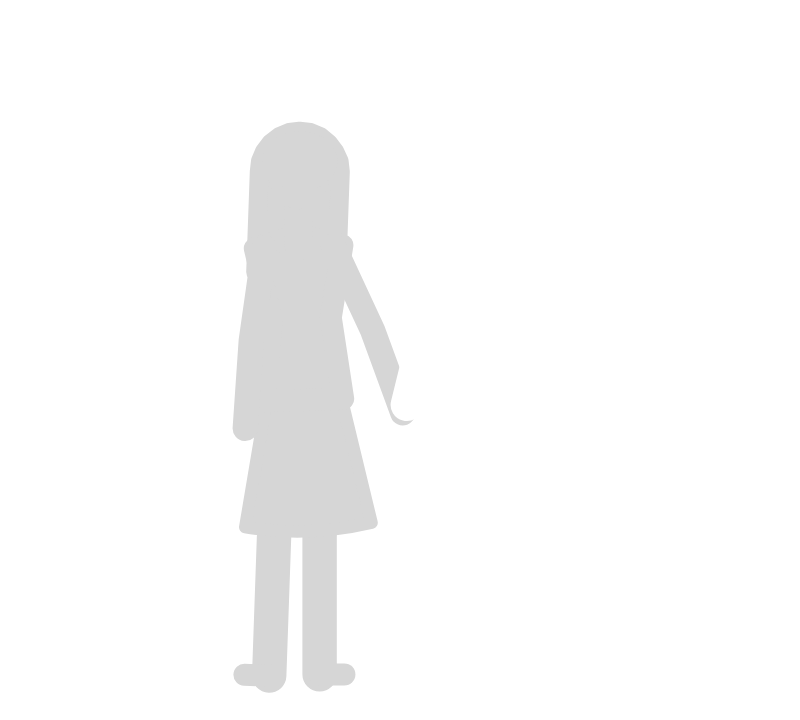
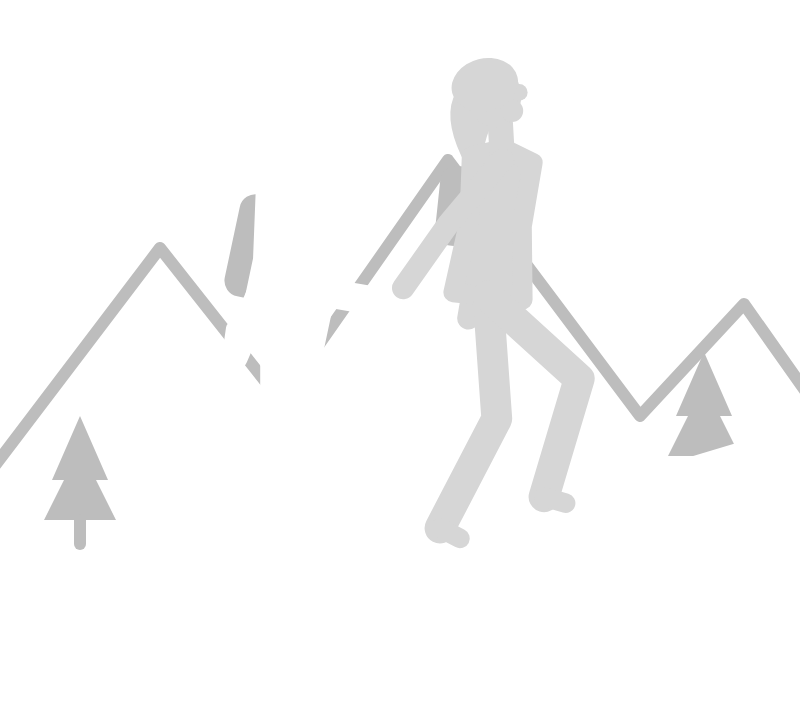
Partner moments: hiking instead of walking, more notes round the dancers, his bike sized to him
Claude-Session: https://claude.ai/code/session_0163xH4XRYdHcSjt4CmHkq4N

Changed region(s): [[0.0, 0.0611, 0.7812, 0.9778], [0.7812, 0.3972, 1.0, 0.6417], [0.0625, 0.5806, 0.1562, 0.7639]]

diff --git a/tools/partner/make_silhouettes.py b/tools/partner/make_silhouettes.py
@@ -327,15 +327,36 @@ def moments():
              + '<path d="M 100 70 Q 105 79 100 84 Q 95 79 100 70 Z" fill="#ffffff"/>')
     scenes.append(chairs + her.svg() + him.svg() + table)
 
-    # 2. Walking hand in hand, seen from the front.
-    her = Figure((76, 100), facing=0, woman=True, scale=0.85, lean=-2, head=4, skirt=0.3,
-                 legs=((4, 2), (-2, 0)), arms=((8, 4), (0, 0)))
-    him = Figure((126, 96), facing=0, scale=0.85, lean=2, head=-4,
-                 legs=((-2, 0), (5, 2)), arms=((0, 0), (8, 4)))
-    meet = (101, 104)
-    her.reach(1, meet, elbow=1)
-    him.reach(0, meet, elbow=1)
-    scenes.append(her.svg() + him.svg())
+    # 2. Hiking together: up a trail with backpacks, she is a step ahead
+    # and reaches back to give him a hand up.
+    def ground(x):
+        return 166 - 0.3 * x
+
+    hills = (stroke("M -4 120 L 40 62 L 70 100 L 112 40 L 160 104 L 186 76 L 210 110", 3, PROP_BACK)
+             + "".join(f'<path d="M {x} {y} l -7 16 l 14 0 Z M {x} {y + 8} l -9 18 l 18 0 Z" fill="{PROP_BACK}"/>'
+                       + stroke(f"M {x} {y + 26} l 0 6", 3, PROP_BACK)
+                       for x, y in ((20, 104), (176, 88))))
+    trail = f'<path d="M -4 {ground(-4):.1f} L 204 {ground(204):.1f} L 204 184 L -4 184 Z" fill="{PROP}"/>'
+    him = Figure((70, 86), facing=1, scale=0.76, lean=12, head=-8)
+    her = Figure((122, 74), facing=1, woman=True, scale=0.76, lean=6, head=-20, hair=1.1)
+    him.step(0, (54, ground(54) - 1), knee=1)
+    him.step(1, (86, ground(86) - 1), knee=1)
+    her.step(0, (110, ground(110) - 1), knee=1)
+    her.step(1, (136, ground(136) - 1), knee=1)
+    meet = (98, 76)
+    her.reach(1, meet, elbow=-1)
+    him.reach(1, meet, elbow=-1)
+    stick_top = add(him.hip, (-12, 4))
+    him.reach(0, stick_top, elbow=-1)
+    stick = stroke(f"M {stick_top[0]:.1f} {stick_top[1] - 8:.1f} L {stick_top[0] - 10:.1f} {ground(stick_top[0] - 10):.1f}", 3)
+    her.reach(0, add(her.hip, (-6, 12)))
+
+    def pack(fig, w, h):
+        c = add(add(fig.hip, fig.up(0, 32 * fig.s)), (-12 * fig.s, 0))
+        return (f'<rect x="{c[0] - w / 2:.1f}" y="{c[1] - h / 2:.1f}" width="{w}" height="{h}" rx="4" '
+                f'fill="{PROP_BACK}" transform="rotate({fig.lean:.1f} {c[0]:.1f} {c[1]:.1f})"/>')
+
+    scenes.append(hills + trail + pack(him, 16, 26) + pack(her, 13, 20) + him.svg() + her.svg() + stick)
 
     # 3. Sharing an umbrella in the rain, close, from the front.
     her = Figure((84, 104), facing=0, woman=True, scale=0.85, lean=6, head=10, skirt=0.2,
@@ -366,9 +387,15 @@ def moments():
     back = add(her.hip, her.up(0, 26 * her.s))
     him.reach(1, add(back, (-8, 0)))
     her.reach(0, add(him.shoulder_mid, (0, 18)), elbow=-1)
-    notes = (stroke("M 26 40 l 0 -14 l 8 -3 l 0 14", 2) + '<circle cx="24" cy="40" r="3" fill="#fff"/>'
-             + '<circle cx="32" cy="37" r="3" fill="#fff"/>'
-             + stroke("M 172 30 l 0 -12", 2) + '<circle cx="170" cy="30" r="3" fill="#fff"/>')
+    def note(x, y, double=False):
+        if double:
+            return (stroke(f"M {x} {y} l 0 -14 l 9 -3 l 0 14", 2.2) + f'<circle cx="{x - 2}" cy="{y}" r="3.2" fill="{PROP}"/>'
+                    + f'<circle cx="{x + 7}" cy="{y - 3}" r="3.2" fill="{PROP}"/>')
+        return (stroke(f"M {x} {y} l 0 -13 q 6 3 5 9", 2.2)
+                + f'<circle cx="{x - 2}" cy="{y}" r="3.2" fill="{PROP}"/>')
+
+    notes = (note(50, 48, True) + note(66, 22) + note(140, 26, True) + note(156, 56)
+             + note(40, 84) + note(166, 92, True))
     scenes.append(notes + him.svg("far") + her.svg("far") + her.svg("body") + him.svg("body")
                   + her.svg("near") + him.svg("near"))
 
@@ -393,14 +420,15 @@ def moments():
         fig.step(1, (x + 8 * s, y - 4 * s))
         return fig
 
-    # Same ground line under both: wheel bottoms at y 160.
-    # His bike is bigger, as he is.
-    bs, ms = 0.88, 1.04
+    # Same ground line under both (wheel bottoms at y 160). Each bike is
+    # sized to its rider: his is bigger by as much as he is taller.
+    bs = 0.88
+    ms = round(bs * 0.86 / (0.84 * 0.92), 2)
     hx, hy = 56, 160 - 17 * bs
     mx, my = 136, 160 - 17 * ms
     her = rider(Figure((0, 0), facing=1, woman=True, scale=0.84, lean=28, head=-16, sway=6,
                        shins=(42, 42)), hx, hy, bs)
-    him = rider(Figure((0, 0), facing=1, scale=0.94, lean=30, head=-18, shins=(42, 42)), mx, my, ms)
+    him = rider(Figure((0, 0), facing=1, scale=0.86, lean=30, head=-18, shins=(42, 42)), mx, my, ms)
     road = stroke("M 10 161 L 190 161", 2.5, PROP_BACK)
     scenes.append(road + bike(hx, hy, HER, bs) + her.svg() + bike(mx, my, PROP, ms) + him.svg())
 
